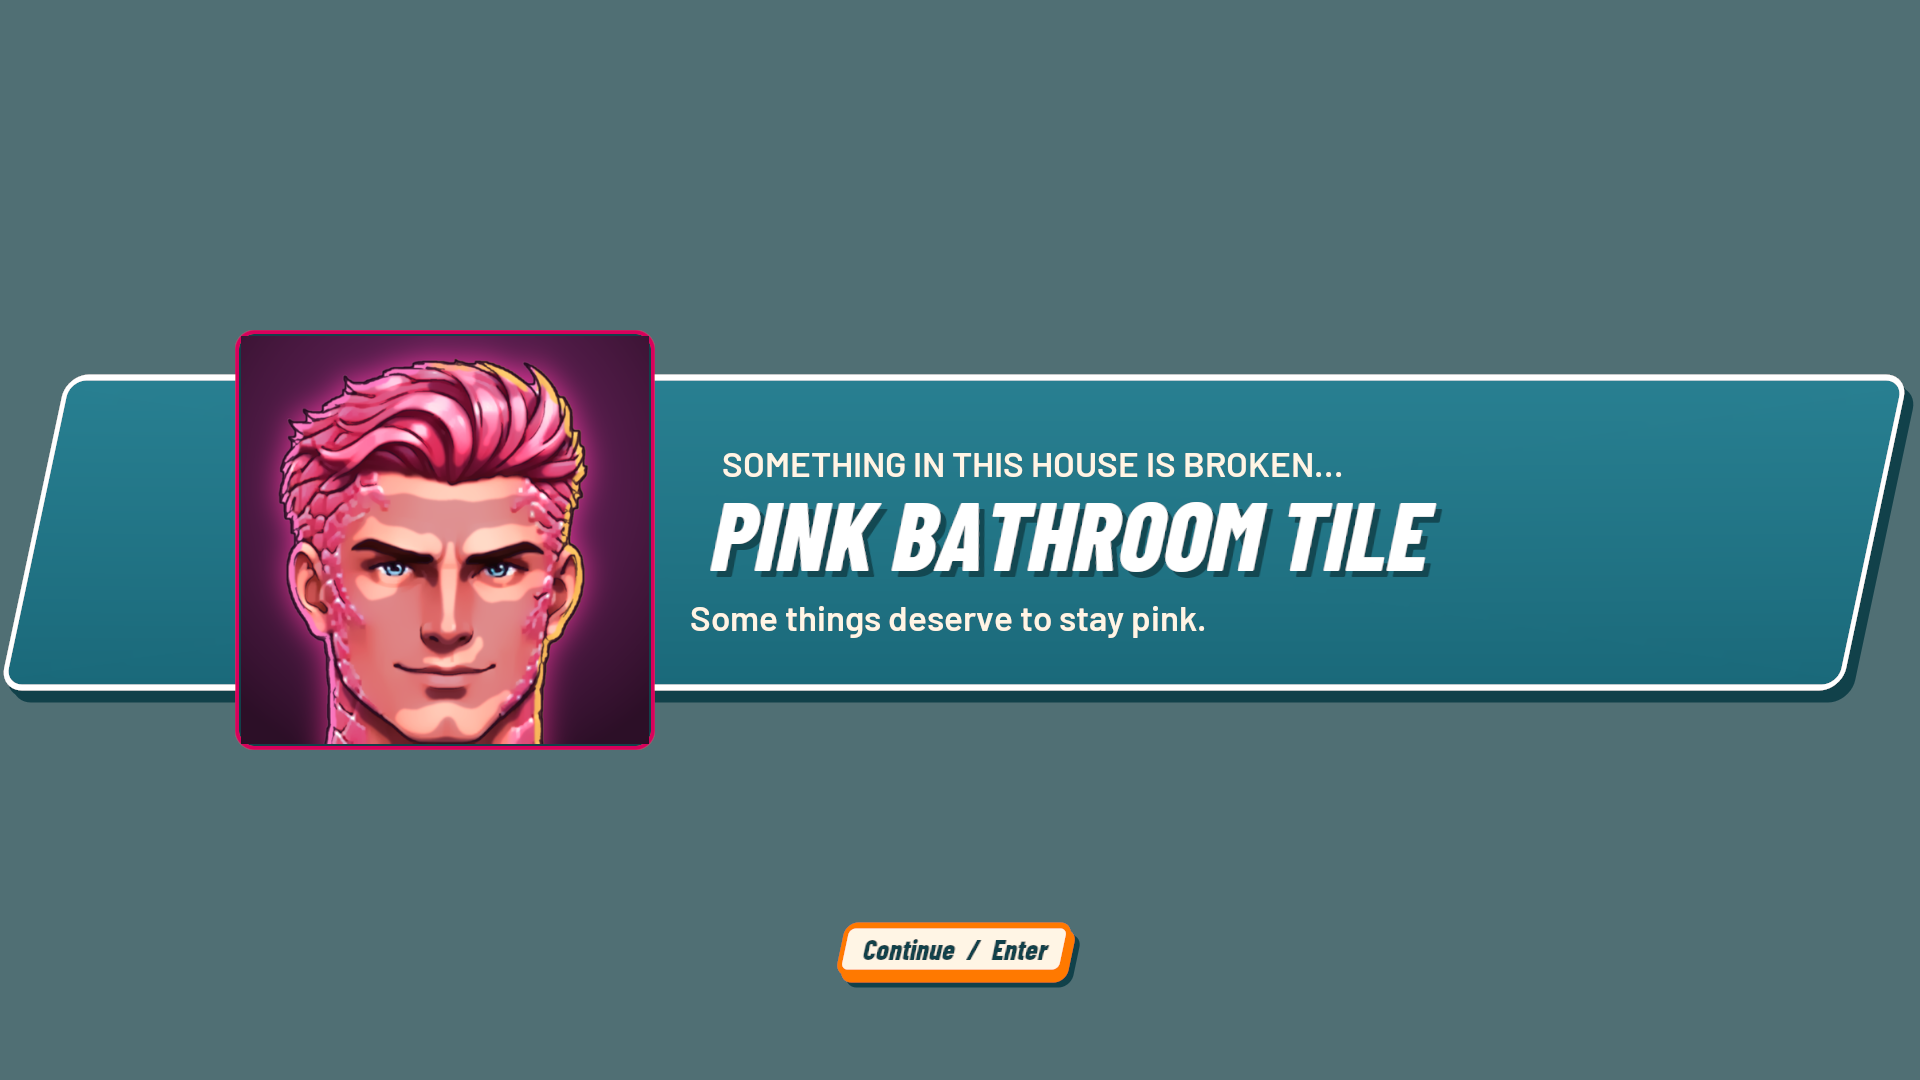
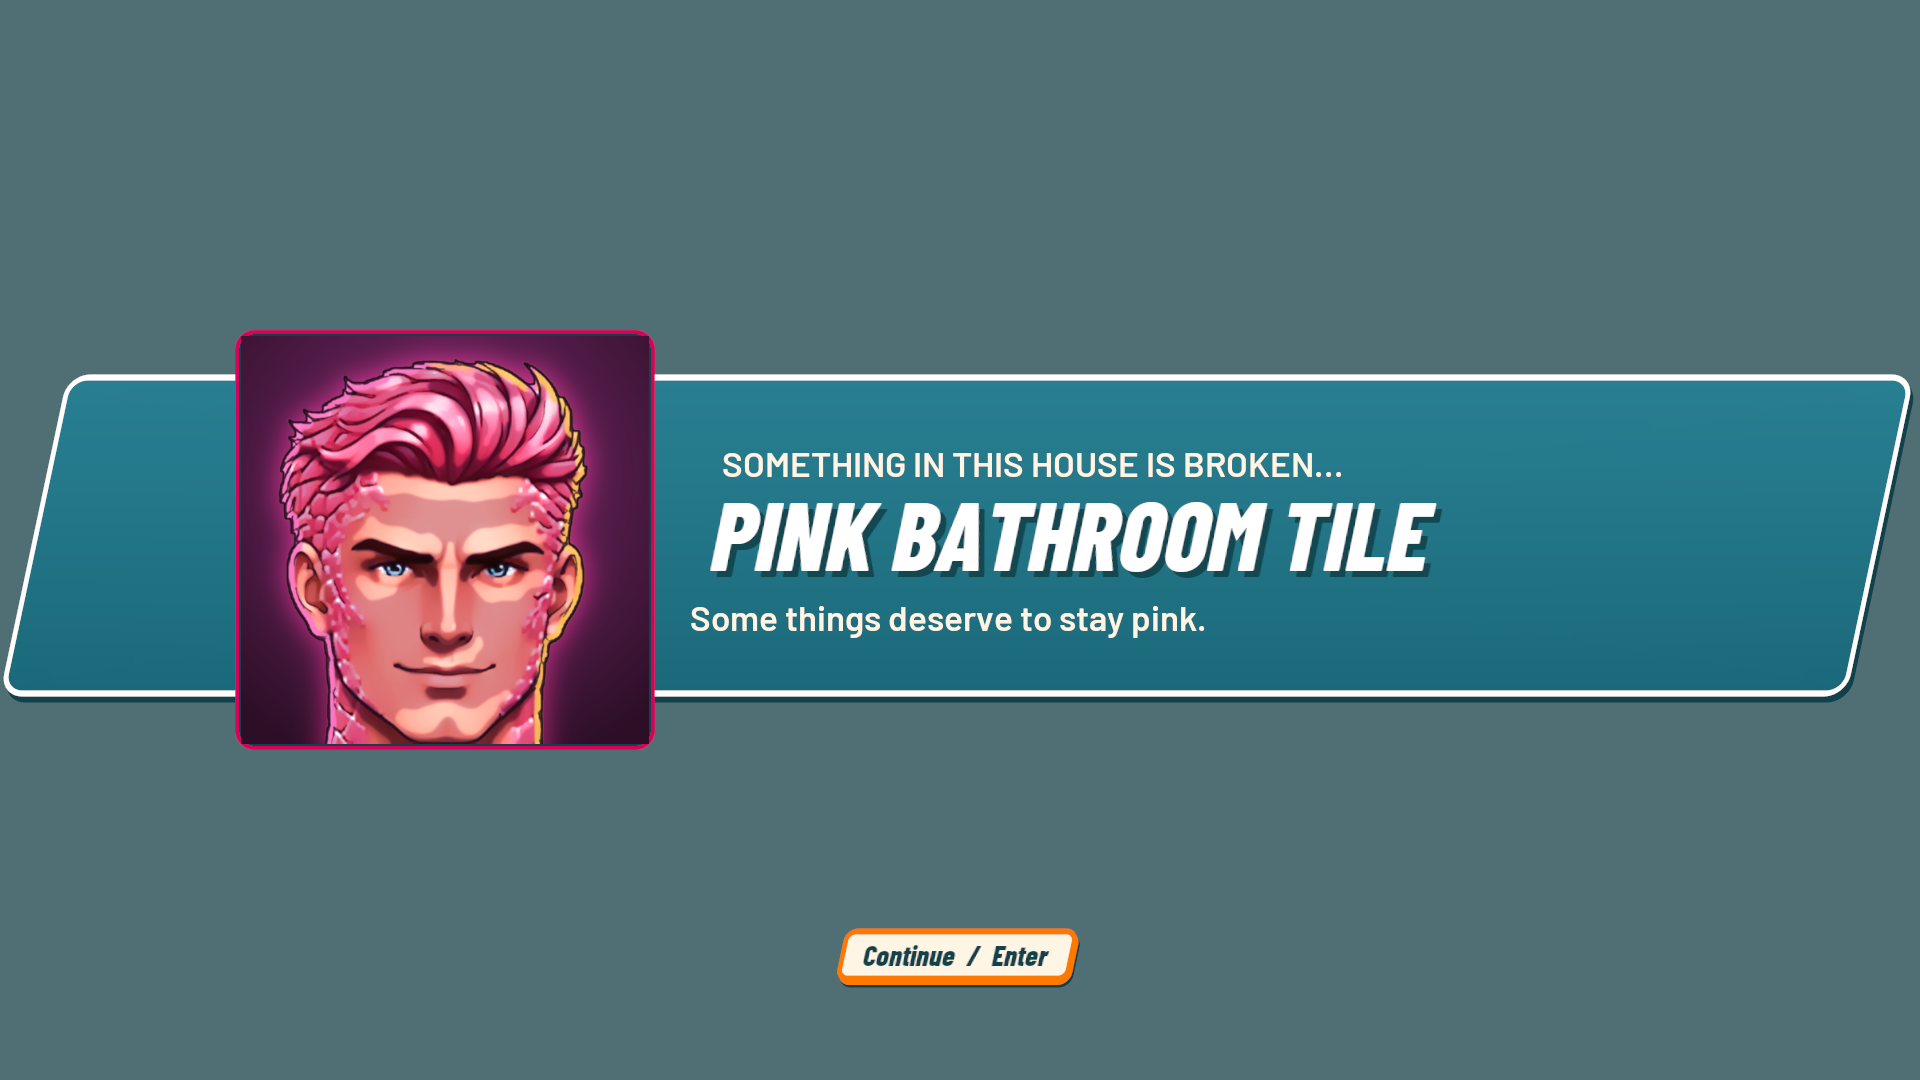
HUD show-graphics plates; extrusion derived from keyline
HUD: pink room plate with wrench, cream week plate tucked under a pink
repairs badge (house icon, large count), as in the mock-up.
Extrusion now matches each surface's keyline: depth and shadow drop by the
border width and slide by half of it, so buttons get half the popups'
extrusion. Face reserve, press offset, centring padding and the straddling
header maths all derive from it.

Changed region(s): [[0.3438, 0.3361, 1.0, 0.6722], [0.4375, 0.8556, 0.5625, 0.9167], [0.0, 0.6111, 0.125, 0.6722]]

diff --git a/Source/ICanFixHim/UI/FixHimHUDWidget.cpp b/Source/ICanFixHim/UI/FixHimHUDWidget.cpp
@@ -15,6 +15,8 @@
 #include "Components/TextBlock.h"
 #include "Components/VerticalBox.h"
 #include "Components/VerticalBoxSlot.h"
+#include "Components/HorizontalBox.h"
+#include "Components/HorizontalBoxSlot.h"
 
 using namespace FixHimUI;
 
@@ -88,25 +90,64 @@ void UFixHimHUDWidget::BuildUI()
 	PromptSlot->SetHorizontalAlignment(HAlign_Center);
 	PromptSlot->SetVerticalAlignment(VAlign_Center);
 
-	// ---- Room name (top left) ----
+	auto IconBox = [&](const TCHAR *Name, float Size) {
+		USizeBox *Box = WidgetTree->ConstructWidget<USizeBox>();
+		Box->SetWidthOverride(Size);
+		Box->SetHeightOverride(Size);
+		Box->AddChild(FixHimDesign::Icon(WidgetTree, Name, FLinearColor::White));
+		return Box;
+	};
+	auto CapLift = [](UTextBlock *T) { T->SetRenderTranslation(FVector2D(0, T->GetFont().Size * FixHimDesign::CapCentre)); };
+
+	// ---- Room name (top left): pink plate with a wrench, as in the show-graphics mock-up ----
 	RoomPill = WidgetTree->ConstructWidget<UFixHimSurface>();
-	RoomPill->SetBrush(Rounded(FixHimDesign::Teal, 18.f));
-	RoomPill->SetPadding(FMargin(32, 8, 40, 8 + FixHimDesign::Extrusion));
-	RoomText = MakeText(WidgetTree, TEXT(""), 26, Cream, TEXT("Display"));
-	RoomPill->SetContent(RoomText);
+	RoomPill->SetBrush(Rounded(Pink, 18.f));
+	RoomPill->SetPadding(FMargin(30, 8, 40, 8 + FixHimDesign::Extrusion));
+	UHorizontalBox *RoomRow = WidgetTree->ConstructWidget<UHorizontalBox>();
+	RoomRow->AddChildToHorizontalBox(IconBox(TEXT("wrench"), 30))->SetVerticalAlignment(VAlign_Center);
+	RoomText = MakeText(WidgetTree, TEXT(""), 30, FLinearColor::White, TEXT("Display"));
+	CapLift(RoomText);
+	UHorizontalBoxSlot *RoomTextSlot = RoomRow->AddChildToHorizontalBox(RoomText);
+	RoomTextSlot->SetVerticalAlignment(VAlign_Center);
+	RoomTextSlot->SetPadding(FMargin(14, 0, 0, 0));
+	RoomPill->SetContent(RoomRow);
 	UOverlaySlot* RoomSlot = Root->AddChildToOverlay(RoomPill);
 	RoomSlot->SetHorizontalAlignment(HAlign_Left);
 	RoomSlot->SetVerticalAlignment(VAlign_Top);
 	RoomSlot->SetPadding(FMargin(28.f, 24.f));
 	RoomPill->SetVisibility(ESlateVisibility::Collapsed);
 
-	// ---- Repairs (top right) ----
-	UBorder* RepPill = WidgetTree->ConstructWidget<UFixHimSurface>();
-	RepPill->SetBrush(Rounded(FixHimDesign::Teal, 18.f));
-	RepPill->SetPadding(FMargin(32, 8, 40, 8 + FixHimDesign::Extrusion));
-	RepairsText = MakeText(WidgetTree, TEXT("Repairs 0/0"), 18, Cream, TEXT("Bold"));
-	RepPill->SetContent(RepairsText);
-	UOverlaySlot* RepSlot = Root->AddChildToOverlay(RepPill);
+	// ---- Week + repairs (top right): cream week plate tucked under a pink repairs badge ----
+	UHorizontalBox *Progress = WidgetTree->ConstructWidget<UHorizontalBox>();
+	UFixHimSurface *Week = WidgetTree->ConstructWidget<UFixHimSurface>();
+	Week->SetBrush(Rounded(Cream, 16.f));
+	// Extra right padding sits under the badge's overlap.
+	Week->SetPadding(FMargin(28, 8, 56, 8 + FixHimDesign::Extrusion));
+	WeekText = MakeText(WidgetTree, TEXT(""), 28, Plum, TEXT("Display"));
+	CapLift(WeekText);
+	Week->SetContent(WeekText);
+	WeekPill = Week;
+	Week->SetVisibility(ESlateVisibility::Collapsed);
+	Progress->AddChildToHorizontalBox(Week)->SetVerticalAlignment(VAlign_Center);
+	UFixHimSurface *RepPill = WidgetTree->ConstructWidget<UFixHimSurface>();
+	RepPill->SetBrush(Rounded(Pink, 18.f));
+	RepPill->SetPadding(FMargin(24, 8, 32, 8 + FixHimDesign::Extrusion));
+	UHorizontalBox *RepRow = WidgetTree->ConstructWidget<UHorizontalBox>();
+	RepRow->AddChildToHorizontalBox(IconBox(TEXT("house"), 34))->SetVerticalAlignment(VAlign_Center);
+	UVerticalBox *RepCol = WidgetTree->ConstructWidget<UVerticalBox>();
+	UTextBlock *RepLabel = MakeText(WidgetTree, TEXT("Repairs"), 18, FLinearColor::White, TEXT("Display"));
+	RepCol->AddChildToVerticalBox(RepLabel)->SetHorizontalAlignment(HAlign_Center);
+	RepairsText = MakeText(WidgetTree, TEXT("0/0"), 40, FLinearColor::White, TEXT("Display"));
+	RepCol->AddChildToVerticalBox(RepairsText)->SetPadding(FMargin(0, -10, 0, 0));
+	UHorizontalBoxSlot *RepColSlot = RepRow->AddChildToHorizontalBox(RepCol);
+	RepColSlot->SetVerticalAlignment(VAlign_Center);
+	RepColSlot->SetPadding(FMargin(12, 0, 0, 0));
+	RepPill->SetContent(RepRow);
+	// Negative lead overlaps the week plate; added second so it draws on top.
+	UHorizontalBoxSlot *RepSlotH = Progress->AddChildToHorizontalBox(RepPill);
+	RepSlotH->SetVerticalAlignment(VAlign_Center);
+	RepSlotH->SetPadding(FMargin(-30, 0, 0, 0));
+	UOverlaySlot* RepSlot = Root->AddChildToOverlay(Progress);
 	RepSlot->SetHorizontalAlignment(HAlign_Right);
 	RepSlot->SetVerticalAlignment(VAlign_Top);
 	RepSlot->SetPadding(FMargin(28.f, 24.f));
@@ -218,8 +259,13 @@ void UFixHimHUDWidget::SetRepairs(int32 Fixed, int32 Total, int32 Week, int32 Nu
 {
 	if (RepairsText)
 	{
-		const FString WeekText = Week > 0 && Week <= NumWeeks ? FString::Printf(TEXT("Week %d of %d   "), Week, NumWeeks) : FString();
-		RepairsText->SetText(FText::FromString(FString::Printf(TEXT("%sRepairs  %d / %d"), *WeekText, Fixed, Total)));
+		RepairsText->SetText(FText::FromString(FString::Printf(TEXT("%d/%d"), Fixed, Total)));
+	}
+	if (WeekText && WeekPill)
+	{
+		const bool bWeek = Week > 0 && Week <= NumWeeks;
+		WeekText->SetText(bWeek ? FText::FromString(FString::Printf(TEXT("Week %d of %d"), Week, NumWeeks)) : FText::GetEmpty());
+		WeekPill->SetVisibility(bWeek ? ESlateVisibility::HitTestInvisible : ESlateVisibility::Collapsed);
 	}
 }
 

diff --git a/Source/ICanFixHim/UI/FixHimUI.cpp b/Source/ICanFixHim/UI/FixHimUI.cpp
@@ -89,7 +89,8 @@ FButtonStyle ButtonStyle(const FLinearColor &Normal, const FLinearColor &Hovered
 	Style.SetDisabled(Rounded(FixHimDesign::Disabled, Radius, FixHimDesign::DisabledInk, 2));
 	Style.SetDisabledForeground(FSlateColor(FixHimDesign::DisabledInk));
 	Style.SetNormalPadding(FMargin(0));
-	Style.SetPressedPadding(FMargin(3, 4, -3, -4)); // follows the face's press offset
+	const FVector2f Press = FixHimDesign::DepthOffset(FixHimDesign::ButtonBorder);
+	Style.SetPressedPadding(FMargin(Press.X, Press.Y, -Press.X, -Press.Y)); // follows the face's press offset
 	return Style;
 }
 
@@ -432,7 +433,8 @@ void UFixHimWidget::NativeTick(const FGeometry &MyGeometry, float InDeltaTime)
 namespace
 {
 // Surface faces leave this much of their box for the extrusion and shadow (see FixHimDesign Surface()).
-constexpr float DepthX = 12.f, DepthY = 15.f;
+constexpr float PlateDepthX = FixHimDesign::DepthReserveX(FixHimDesign::ButtonBorder),
+                PlateDepthY = FixHimDesign::DepthReserveY(FixHimDesign::ButtonBorder);
 
 } // namespace
 
@@ -485,7 +487,7 @@ void UFixHimWidget::SyncHeaderLayouts()
 		const bool bShown = Header->GetVisibility() != ESlateVisibility::Collapsed;
 		float HeaderH = bShown ? Header->GetDesiredSize().Y : 0.f;
 		if (bShown && HeaderH <= 0)
-			HeaderH = 28.f + 1.25f * FixHimDesign::Heading * FixHimDesign::TextScale() + DepthY;
+			HeaderH = 28.f + 1.25f * FixHimDesign::Heading * FixHimDesign::TextScale() + PlateDepthY;
 		float SurfaceH = Surface->GetCachedGeometry().GetLocalSize().Y;
 		if (SurfaceH <= 0)
 			SurfaceH = Surface->GetDesiredSize().Y;
@@ -493,7 +495,11 @@ void UFixHimWidget::SyncHeaderLayouts()
 		if (Measured.Equals(L.Measured, .5))
 			continue;
 		L.Measured = Measured;
-		const float PlateFace = FMath::Max(0.f, HeaderH - DepthY), Drop = PlateFace * .5f;
+		const float PlateFace = FMath::Max(0.f, HeaderH - PlateDepthY), Drop = PlateFace * .5f;
+		const auto *DesignSurface = Cast<UFixHimSurface>(Surface);
+		const float SurfaceBorder = DesignSurface ? DesignSurface->BorderWidth : FixHimDesign::ButtonBorder;
+		const float SurfaceDepthX = FixHimDesign::DepthReserveX(SurfaceBorder),
+		            SurfaceDepthY = FixHimDesign::DepthReserveY(SurfaceBorder);
 		if (auto *SurfaceSlot = Cast<UOverlaySlot>(Surface->Slot))
 			SurfaceSlot->SetPadding(FMargin(0, Drop, 0, 0));
 		FMargin P = L.Padding;
@@ -501,10 +507,10 @@ void UFixHimWidget::SyncHeaderLayouts()
 			P.Top += HeaderH - Drop;
 		Surface->SetPadding(P);
 		// Both faces lean 12 degrees. At the plate's mid-height (the surface's top edge) the surface face spans
-		// [FaceH*K, BoxW-DepthX] and the plate face spans [Left + PlateFace*K/2, Left + PlateW - DepthX - PlateFace*K/2].
-		const float SurfaceFace = FMath::Max(0.f, SurfaceH - DepthY);
+		// [FaceH*K, BoxW-SurfaceDepthX] and the plate face spans [Left + Drop*K, Left + PlateW - PlateDepthX - Drop*K].
+		const float SurfaceFace = FMath::Max(0.f, SurfaceH - SurfaceDepthY);
 		const float Left = SurfaceFace * K + L.Inset - Drop * K;
-		const float Right = L.Inset - Drop * K;
+		const float Right = L.Inset - Drop * K + (SurfaceDepthX - PlateDepthX);
 		if (auto *HeaderSlot = Cast<UOverlaySlot>(Header->Slot))
 			HeaderSlot->SetPadding(FMargin(Left, 0, Right, 0));
 	}

diff --git a/Source/ICanFixHim/UI/FixHimDesign.h b/Source/ICanFixHim/UI/FixHimDesign.h
@@ -24,11 +24,20 @@ inline constexpr float DisplayShear = 0.0897720008f; // tan(12) - tan(7)
 /** Keyline (outline) widths. Buttons and plates use ButtonBorder; popup cards and panels use twice that. */
 inline constexpr float ButtonBorder = 6.f, PopupBorder = 12.f;
 /**
- * Vertical centring on slanted surfaces. The face excludes a 15-unit extrusion at the bottom, so text is centred
- * when bottom padding = top padding + Extrusion. Barlow's line box (ascender 1.0 em, descender 0.2 em) puts the
- * capitals' centre 0.05 em below the box centre; CapCentre lifts labels by that much.
+ * The extrusion (coloured depth plus ink shadow) matches the keyline: it reaches Border units down and half that
+ * sideways, so buttons and plates get half the popups' depth. Depth layer at (7B/24, 7B/12), shadow at (B/2, B);
+ * the face leaves DepthReserve(B) of its box for them.
  */
-inline constexpr float Extrusion = 15.f, CapCentre = -.05f;
+inline FVector2f DepthOffset(float Border) { return FVector2f(Border * 7.f / 24.f, Border * 7.f / 12.f); }
+inline FVector2f ShadowOffset(float Border) { return FVector2f(Border * .5f, Border); }
+inline constexpr float DepthReserveX(float Border) { return Border * .5f + 3.f; }
+inline constexpr float DepthReserveY(float Border) { return Border + 3.f; }
+/**
+ * Vertical centring on slanted surfaces: the face excludes the extrusion reserve at the bottom, so text is centred
+ * when bottom padding = top padding + Extrusion (button-weight plates). Barlow's line box (ascender 1.0 em,
+ * descender 0.2 em) puts the capitals' centre 0.05 em below the box centre; CapCentre lifts labels by that much.
+ */
+inline constexpr float Extrusion = DepthReserveY(ButtonBorder), CapCentre = -.05f;
 inline constexpr float HitHeight = 48.f;
 inline constexpr int32 Caption = 16, Body = 22, Line = 28, Reply = 28, Label = 24, Heading = 36, Hero = 72;
 ICANFIXHIM_API bool ReducedMotion();

diff --git a/Source/ICanFixHim/UI/FixHimDesign.cpp b/Source/ICanFixHim/UI/FixHimDesign.cpp
@@ -81,7 +81,7 @@ void Surface(FSlateWindowElementList &Out, int32 Layer, const FGeometry &G, FLin
 	using namespace FixHimDesign;
 	const FVector2f Size(G.GetLocalSize());
 	const float R = Size.Y > 140 ? 22.f : 12.f;
-	const FVector2f FaceSize = Size - FVector2f(12, 15);
+	const FVector2f FaceSize = Size - FVector2f(DepthReserveX(Keyline), DepthReserveY(Keyline));
 	FLinearColor Top = Fill, Bottom = Fill;
 	if (Fill.Equals(Teal, .015f))
 	{
@@ -93,12 +93,13 @@ void Surface(FSlateWindowElementList &Out, int32 Layer, const FGeometry &G, FLin
 		Top = FLinearColor::FromSRGBColor(FColor::FromHex(TEXT("E80C70")));
 		Bottom = FLinearColor::FromSRGBColor(FColor::FromHex(TEXT("C90055")));
 	}
-	const FVector2f Offset = Pressed ? FVector2f(3, 4) : Focused ? FVector2f(0, -2) : FVector2f(0, 0);
-	Shape(Out, Layer, G, FVector2f(9, 12), FaceSize, R, Slanted, Ink, Ink, Tint);
+	// Pressing pushes the face down onto its depth layer.
+	const FVector2f Offset = Pressed ? DepthOffset(Keyline) : Focused ? FVector2f(0, -2) : FVector2f(0, 0);
+	Shape(Out, Layer, G, ShadowOffset(Keyline), FaceSize, R, Slanted, Ink, Ink, Tint);
 	const bool Reading = Fill.Equals(FixHimDesign::Cream, .015f);
 	const auto Edge = !Enabled ? DisabledInk : Reading ? Orange : FLinearColor::White;
 	const auto Depth = !Enabled ? DisabledInk : Reading ? Orange : Ink;
-	Shape(Out, Layer + 1, G, FVector2f(4, 7), FaceSize, R, Slanted, Depth, Depth, Tint);
+	Shape(Out, Layer + 1, G, DepthOffset(Keyline), FaceSize, R, Slanted, Depth, Depth, Tint);
 	Shape(Out, Layer + 2, G, Offset, FaceSize, R, Slanted, Focused ? FLinearColor::White : Edge,
 	      Focused ? FLinearColor::White : Edge, Tint);
 	// Keyline only: the face is inset by the border width; the extrusion and shadow keep their size.

diff --git a/Source/ICanFixHim/UI/FixHimDialogueWidget.cpp b/Source/ICanFixHim/UI/FixHimDialogueWidget.cpp
@@ -489,7 +489,8 @@ void UFixHimDialogueWidget::BuildChoices()
 		B->SetVariant(EFixHimButtonVariant::Reply);
 		FButtonStyle Style = ButtonStyle(Cream, Pink, Pink, 12, Gold);
 		Style.SetNormalPadding(FMargin(52, 17, 32, 17 + FixHimDesign::Extrusion));
-		Style.SetPressedPadding(FMargin(55, 21, 29, 13 + FixHimDesign::Extrusion));
+		const FVector2f Press = FixHimDesign::DepthOffset(FixHimDesign::ButtonBorder);
+		Style.SetPressedPadding(FMargin(52 + Press.X, 17 + Press.Y, 32 - Press.X, 17 - Press.Y + FixHimDesign::Extrusion));
 		B->SetStyle(Style);
 		B->Label = MakeText(WidgetTree, Label, FixHimDesign::Reply, Plum, TEXT("Display"));
 		B->Label->SetAutoWrapText(true);

diff --git a/Source/ICanFixHim/UI/FixHimHUDWidget.h b/Source/ICanFixHim/UI/FixHimHUDWidget.h
@@ -59,7 +59,10 @@ private:
 	UPROPERTY() TObjectPtr<UBorder> PromptPill;
 	UPROPERTY() TObjectPtr<UTextBlock> RoomText;
 	UPROPERTY() TObjectPtr<UBorder> RoomPill;
+	/** Repairs count ("2/4") on the pink repairs badge. */
 	UPROPERTY() TObjectPtr<UTextBlock> RepairsText;
+	UPROPERTY() TObjectPtr<UTextBlock> WeekText;
+	UPROPERTY() TObjectPtr<UWidget> WeekPill;
 	UPROPERTY() TObjectPtr<UBorder> ToastPill;
 	UPROPERTY() TObjectPtr<UTextBlock> ToastText;
 

diff --git a/docs/03 Art & Audio/UI Design System.md b/docs/03 Art & Audio/UI Design System.md
@@ -64,8 +64,10 @@ The selected treatment restores **rounded corners, thicker asymmetric borders an
 - Every element that uses a slant uses the same **12° right lean**: button silhouettes, panels, tabs, header plates, badges, outlines, focus contours and shadows.
 - The **placement grid also uses 12°**. Control origins, text-block anchors and icon anchors align along shared angled columns; rows and text baselines remain horizontal.
 - Rounded cream panel bodies pair with teal headers, orange borders heavier on the lower/right sides, and short ink offset shadows.
-- **Keylines:** buttons and plates use a 6-unit keyline; popup cards and panels use 12. Extrusion and shadow are unchanged by keyline width.
-- **Text is vertically centred on the face** of every button, header and plate: bottom padding = top padding + the 15-unit extrusion, and labels lift by 0.05 em so capitals (not the font's line box) sit on the centre. Buttons carry 16 units of vertical padding.
+- **Keylines:** buttons and plates use a 6-unit keyline; popup cards and panels use 12.
+- **Extrusion matches the keyline:** the depth and shadow drop by the keyline width and slide right by half of it, so buttons and plates have half the popups' extrusion. Pressing pushes the face onto its depth layer.
+- **HUD (show-graphics):** the room name sits on a pink plate with a wrench icon; the week sits on its own cream plate, tucked under a pink repairs badge with a house icon, a small "Repairs" label and a large count.
+- **Text is vertically centred on the face** of every button, header and plate: bottom padding = top padding + the extrusion reserve (keyline + 3), and labels lift by 0.05 em so capitals (not the font's line box) sit on the centre. Buttons carry 16 units of vertical padding.
 - The title screen shows only the logo and menu: no tagline or event footer.
 - **Popup and sheet headers** are teal plates straddling the surface's top edge: the plate face is centred vertically on that edge and inset equally from both slanted sides.
 - Dialogue shows **no character portrait**; the character is present in the scene.

diff --git a/docs/04 Tech/UI Component Library.md b/docs/04 Tech/UI Component Library.md
@@ -63,7 +63,7 @@ Shared components are used by title/name entry, pause/options/credits, end-day c
 
 Dialogue retains its typewriter, clickable topic callbacks and authored choices. The header row (name plate and a teal meter strip whose bars carry Phosphor heart/users/flame icon badges) straddles the panel via `MakeHeaderedSurface`; narration and generic script scenes hide the relationship group. Four replies stack and wrap. Dialogue has no portrait. Character introductions use visible painted portraits where available.
 
-Keyline width comes from `FixHimDesign::ButtonBorder` (6) and `PopupBorder` (12); set `UFixHimSurface::BorderWidth` for large containers. To centre text on a surface, use `bottom = top + FixHimDesign::Extrusion` padding and fill (not centre) alignment for button content: Slate's centred slot alignment ignores asymmetric padding and would lift labels by half the extrusion. `FixHimDesign::CapCentre` (-0.05 em) centres capitals rather than the line box.
+Keyline width comes from `FixHimDesign::ButtonBorder` (6) and `PopupBorder` (12); set `UFixHimSurface::BorderWidth` for large containers. The extrusion is derived from it (`DepthOffset`, `ShadowOffset`, `DepthReserveX/Y`: border down, half that across). To centre text on a surface, use `bottom = top + FixHimDesign::Extrusion` padding and fill (not centre) alignment for button content: Slate's centred slot alignment ignores asymmetric padding and would lift labels by half the extrusion. `FixHimDesign::CapCentre` (-0.05 em) centres capitals rather than the line box.
 
 `UFixHimWidget::MakeHeaderedSurface` wraps any slanted surface with a teal title plate straddling its top edge. `MakeCardScreen` and the floor plan use it; the plate position is re-fitted each tick from measured sizes, so text scaling and content changes stay aligned.
 
